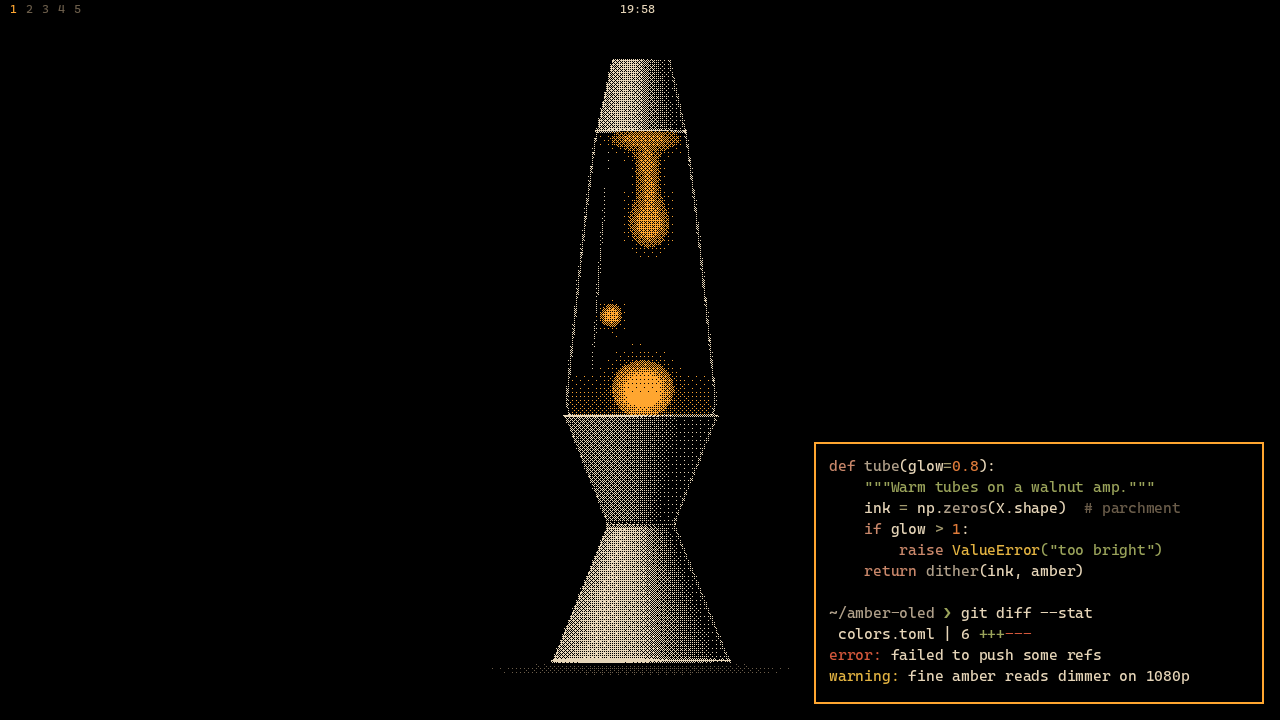
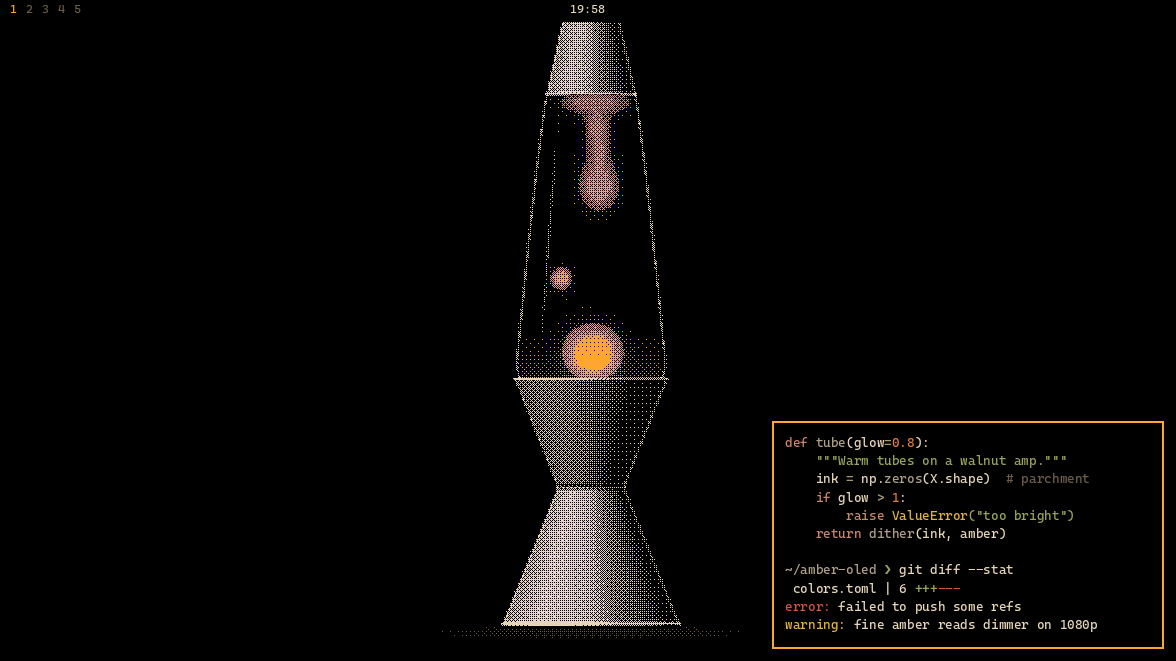
README: crisper hero, swatch palette, no duplicate lava lamp

diff --git a/README.md b/README.md
@@ -17,9 +17,7 @@ omarchy-theme-install https://github.com/limehawk/omarchy-amber-oled-theme
 
 ## Wallpapers
 
-The background picker walks through them by style, one highlight from each below. The lava lamp is the default.
-
-![The lava lamp, the default wallpaper](screenshots/0010-lavalamp.png)
+The background picker walks through them by style, one highlight from each below. The lava lamp at the top is the default.
 
 Up close, at one screen pixel to one image pixel: the dither is the look. Fades break into single dots, so the grid and the gradient show at once.
 
@@ -89,18 +87,24 @@ The thumbnails are shrunk, so they read darker than the real thing; open any fil
 
 ## Palette
 
-![The palette: black, parchment, walnut ink, tube amber, vermilion, burnt orange, mustard, avocado, brass, smoke, clay, walnut](screenshots/palette.png)
+| | Role | Hex |
+| --- | --- | --- |
+| <img valign="middle" alt="#000000" src="https://readme-swatches.vercel.app/000000?style=round"/> | background | `#000000` |
+| <img valign="middle" alt="#e6d5b8" src="https://readme-swatches.vercel.app/e6d5b8?style=round"/> | foreground, parchment | `#e6d5b8` |
+| <img valign="middle" alt="#6b5d4a" src="https://readme-swatches.vercel.app/6b5d4a?style=round"/> | walnut ink | `#6b5d4a` |
+| <img valign="middle" alt="#ffa630" src="https://readme-swatches.vercel.app/ffa630?style=round"/> | accent, tube amber | `#ffa630` |
+| <img valign="middle" alt="#d4573b" src="https://readme-swatches.vercel.app/d4573b?style=round"/> | red, vermilion | `#d4573b` |
+| <img valign="middle" alt="#e07b39" src="https://readme-swatches.vercel.app/e07b39?style=round"/> | orange, burnt orange | `#e07b39` |
+| <img valign="middle" alt="#e3b341" src="https://readme-swatches.vercel.app/e3b341?style=round"/> | yellow, mustard | `#e3b341` |
+| <img valign="middle" alt="#9aa35a" src="https://readme-swatches.vercel.app/9aa35a?style=round"/> | green, avocado | `#9aa35a` |
+| <img valign="middle" alt="#a39a6e" src="https://readme-swatches.vercel.app/a39a6e?style=round"/> | cyan, brass | `#a39a6e` |
+| <img valign="middle" alt="#b0a08a" src="https://readme-swatches.vercel.app/b0a08a?style=round"/> | blue, smoke | `#b0a08a` |
+| <img valign="middle" alt="#c9876a" src="https://readme-swatches.vercel.app/c9876a?style=round"/> | magenta, clay | `#c9876a` |
+| <img valign="middle" alt="#9a6b43" src="https://readme-swatches.vercel.app/9a6b43?style=round"/> | brown, walnut | `#9a6b43` |
+
+Text on the background is 14.6:1 (WCAG AAA). Icons use Yaru-yellow.
 
 ![Terminal colours on a sample of Python and git output](screenshots/terminal.png)
-
-| | |
-|---|---|
-| background | `#000000` |
-| foreground | `#E6D5B8` parchment |
-| accent | `#FFA630` tube amber |
-| red / orange / yellow | `#D4573B` vermilion · `#E07B39` burnt orange · `#E3B341` mustard |
-| green / cyan / blue | `#9AA35A` avocado · `#A39A6E` brass · `#B0A08A` smoke |
-| magenta / brown | `#C9876A` clay · `#9A6B43` walnut |
 
 Chromium-based browsers take Omarchy's pure-black seed. Chrome builds its own dark palette from it, so its frame is Chrome's darkest grey rather than true black; a browser theme can't go further.
 
